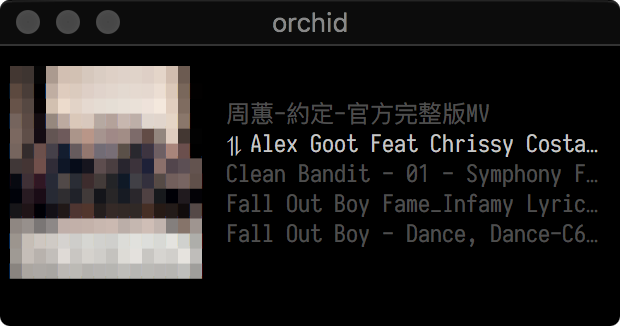
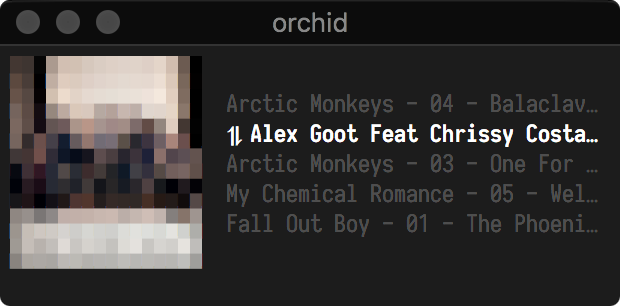
update screenshots

diff --git a/README.md b/README.md
@@ -16,9 +16,10 @@ are only properly displayed on screen-256 (at least for me). YMMV.
 
 ## screenshots
 
-[<img src='./screenshots/demo1.png' width='30%'>]()
-[<img src='./screenshots/demo2.png' width='30%'>]()
-[<img src='./screenshots/demo3.png' width='30%'>]()
+[<img src='./screenshots/demo1.png' width='24%'>]()
+[<img src='./screenshots/demo2.png' width='24%'>]()
+[<img src='./screenshots/demo3.png' width='24%'>]()
+[<img src='./screenshots/demo4.png' width='24%'>]()
 
 ## controls
 
